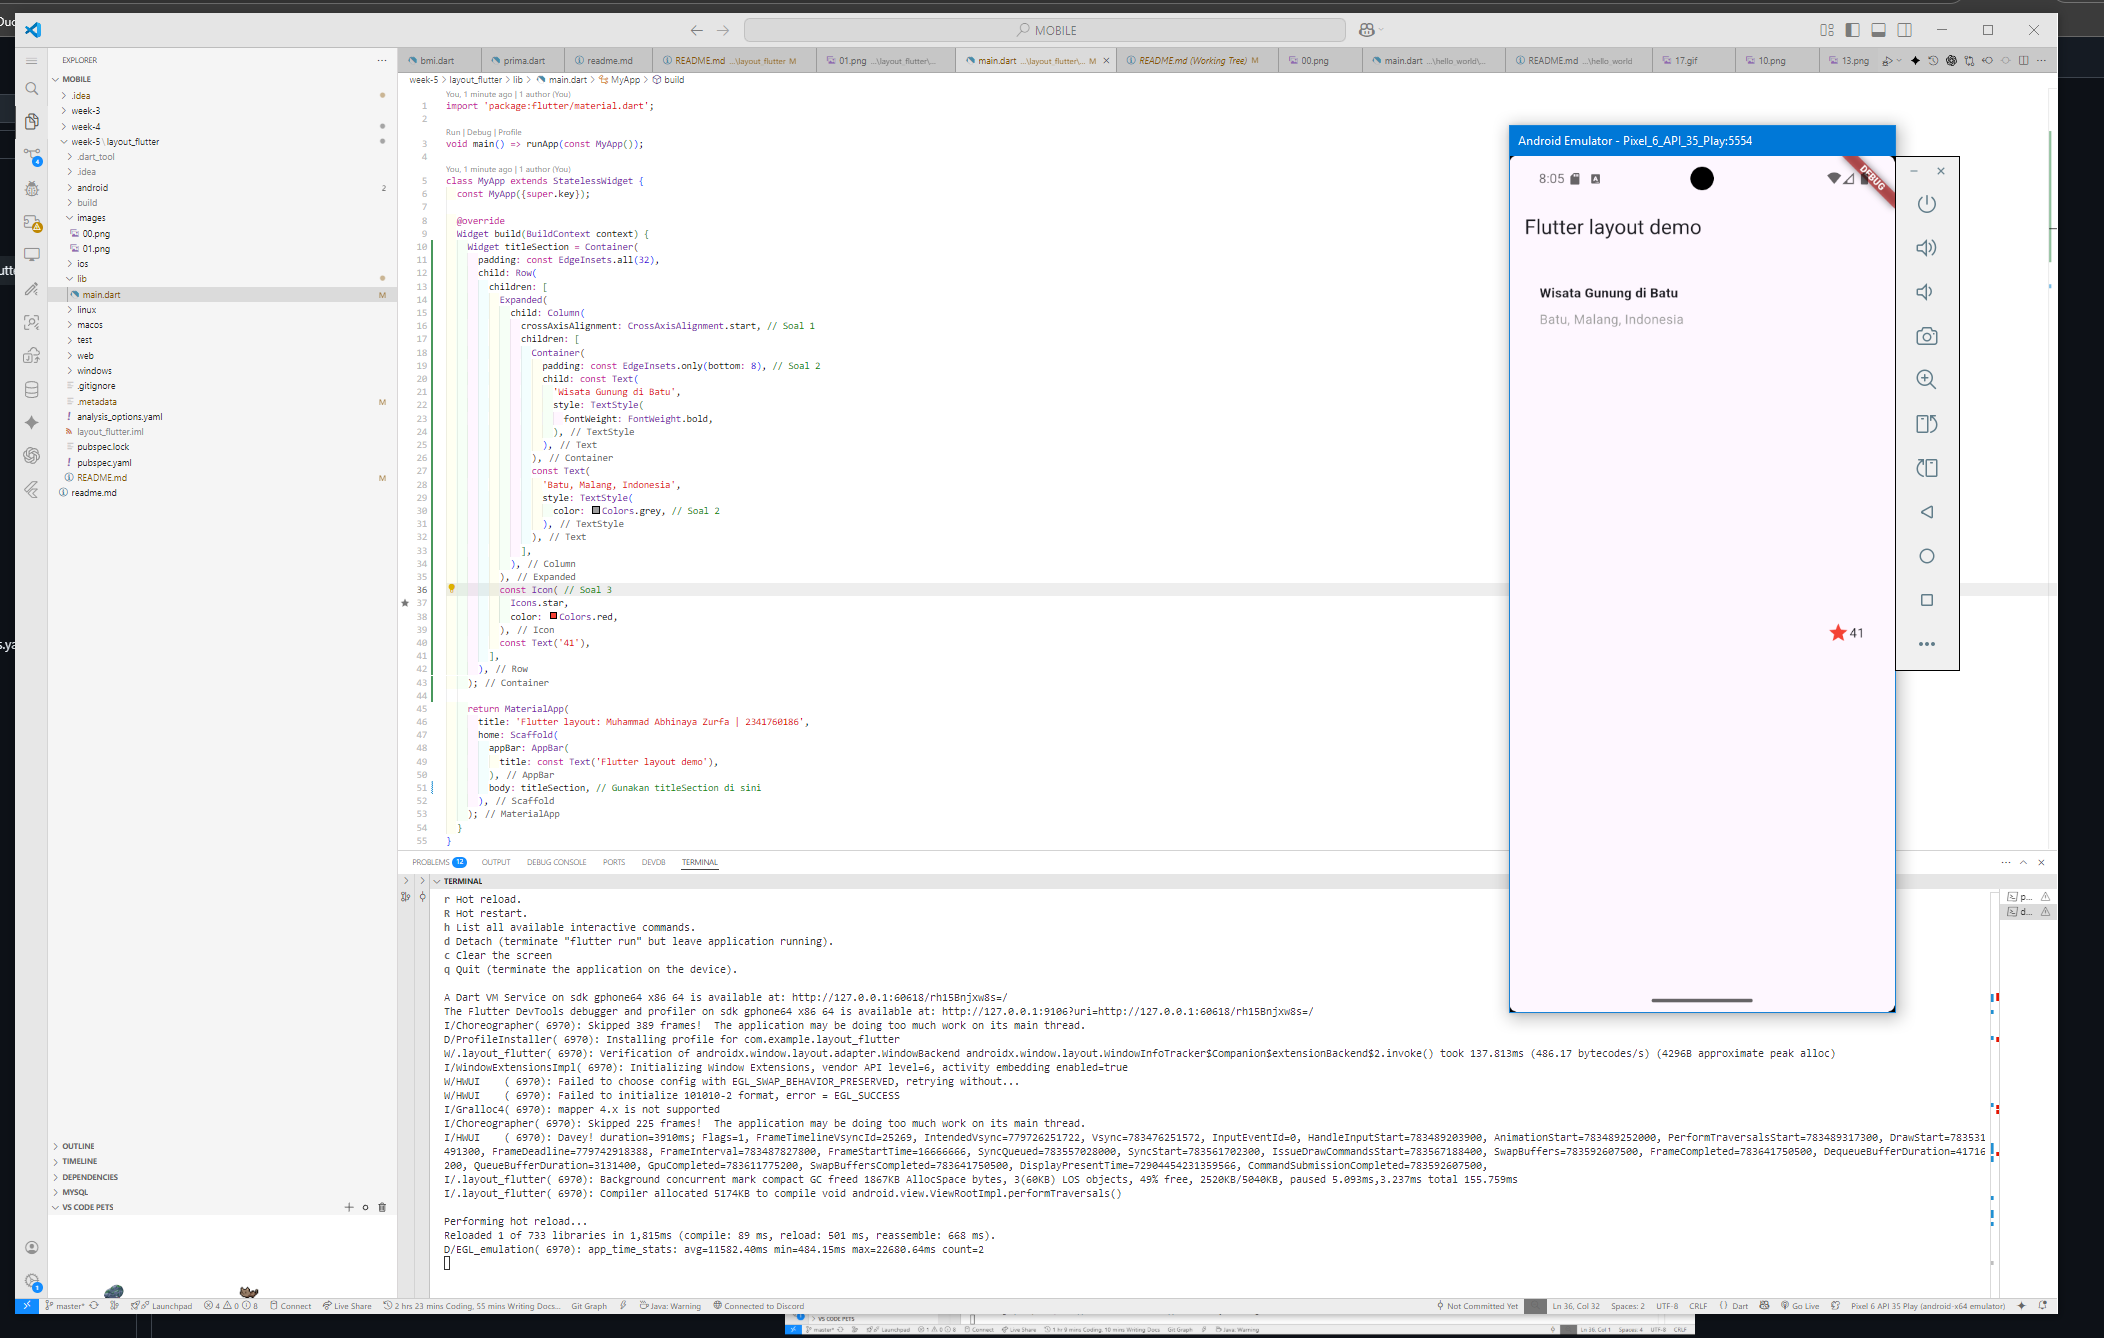
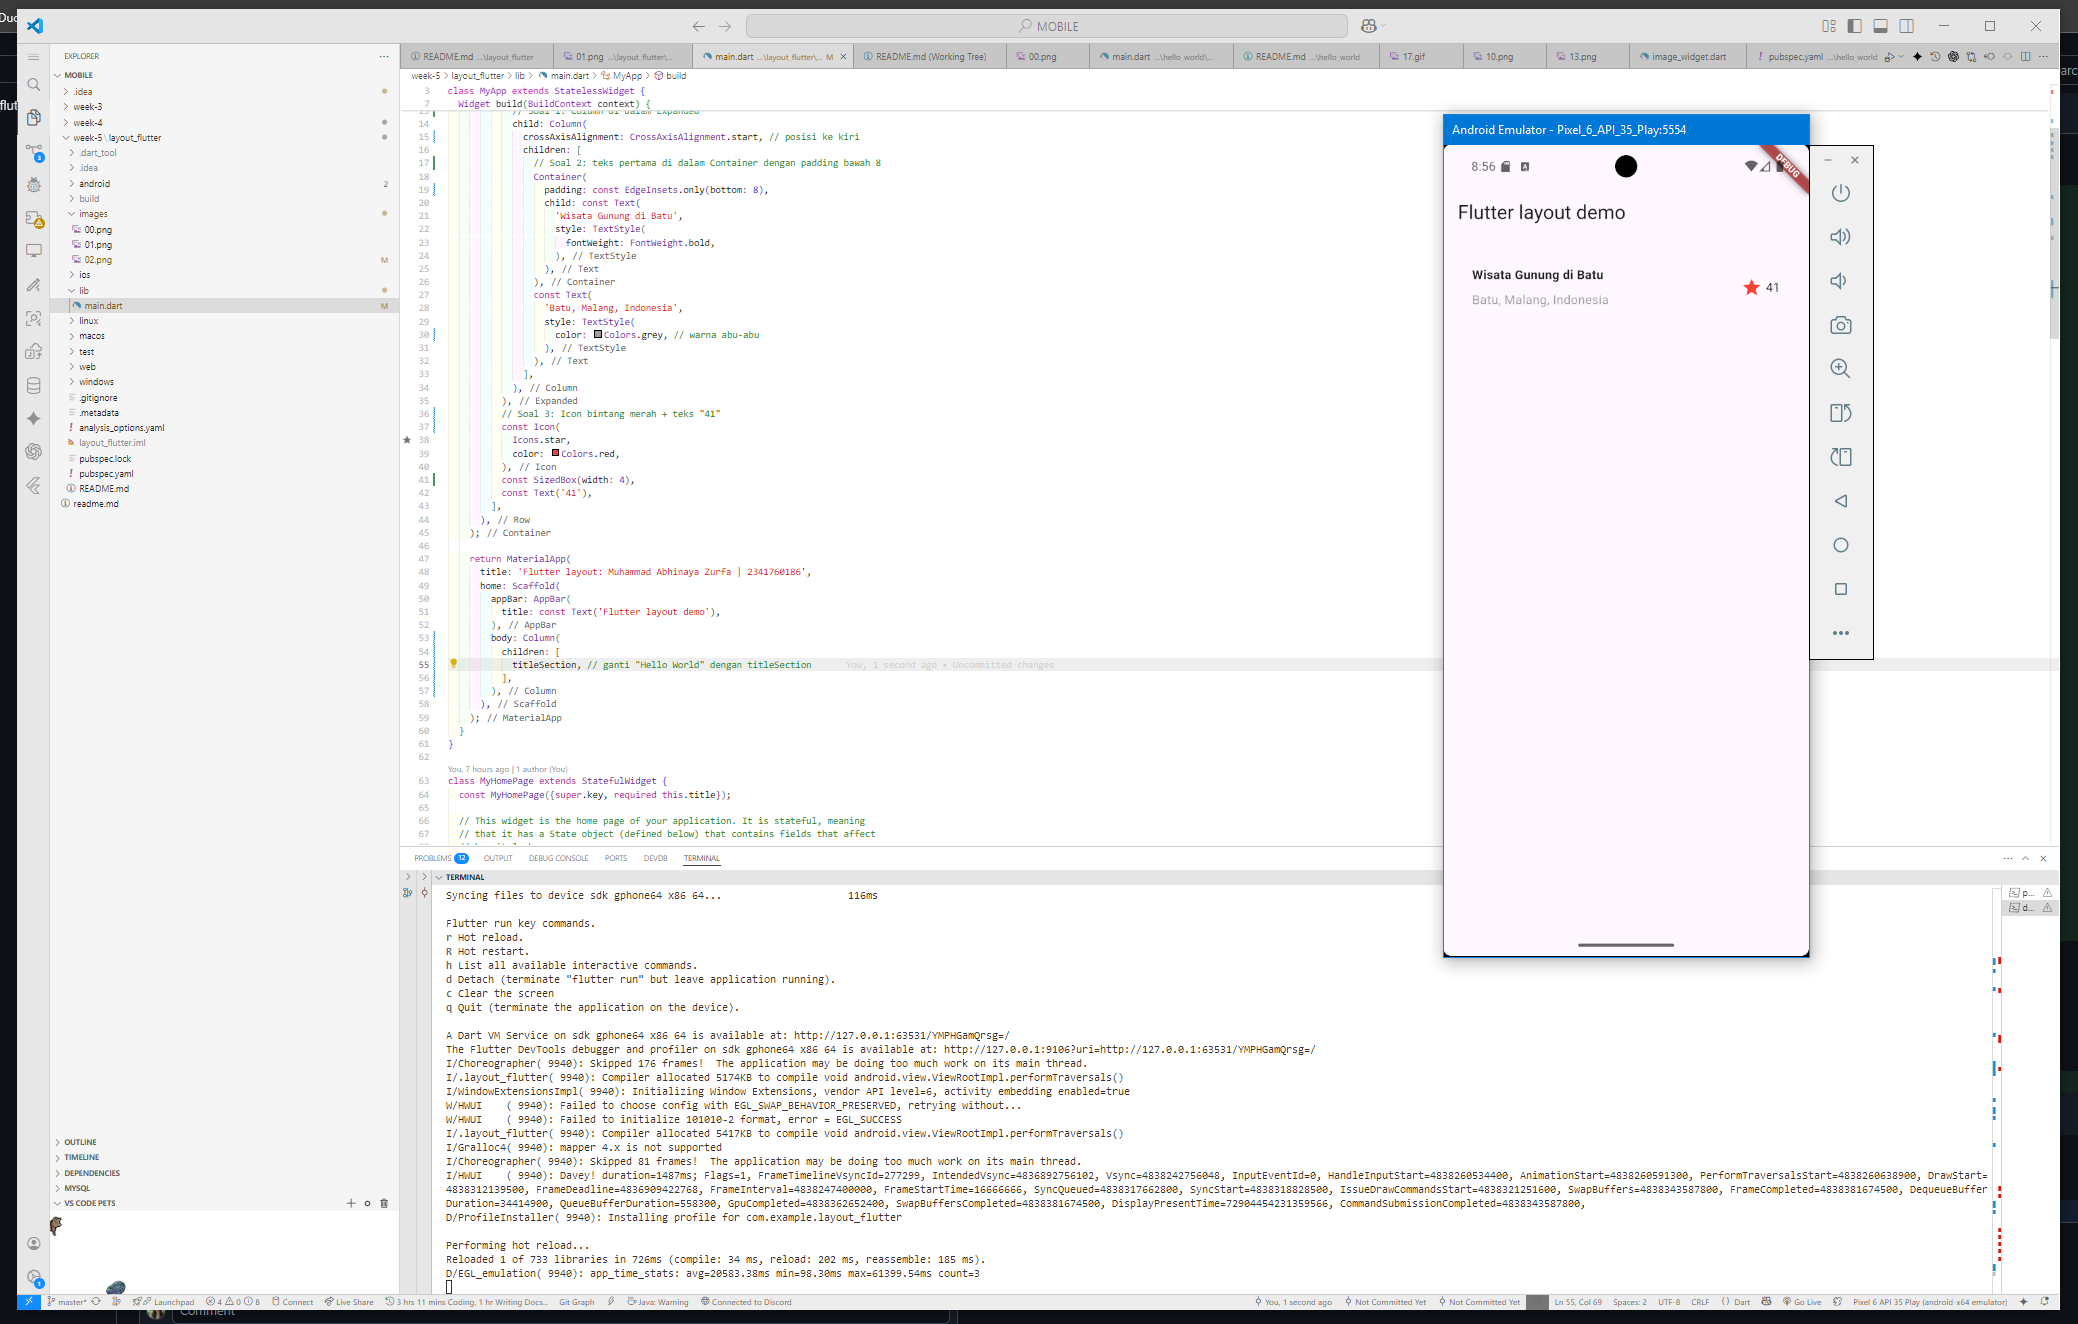
fixing fixing fixing zzzz

Changed region(s): [[0.0, 0.0, 1.0, 1.0], [0.7084, 0.4335, 0.7392, 0.4645]]

diff --git a/week-5/layout_flutter/lib/main.dart b/week-5/layout_flutter/lib/main.dart
@@ -1,22 +1,22 @@
 import 'package:flutter/material.dart';
 
-void main() => runApp(const MyApp());
-
 class MyApp extends StatelessWidget {
   const MyApp({super.key});
 
   @override
   Widget build(BuildContext context) {
     Widget titleSection = Container(
-      padding: const EdgeInsets.all(32),
+      padding: const EdgeInsets.all(32), // padding di sepanjang sisi
       child: Row(
         children: [
           Expanded(
+            // Soal 1: Column di dalam Expanded
             child: Column(
-              crossAxisAlignment: CrossAxisAlignment.start, // Soal 1
+              crossAxisAlignment: CrossAxisAlignment.start, // posisi ke kiri
               children: [
+                // Soal 2: teks pertama di dalam Container dengan padding bawah 8
                 Container(
-                  padding: const EdgeInsets.only(bottom: 8), // Soal 2
+                  padding: const EdgeInsets.only(bottom: 8),
                   child: const Text(
                     'Wisata Gunung di Batu',
                     style: TextStyle(
@@ -27,16 +27,18 @@ class MyApp extends StatelessWidget {
                 const Text(
                   'Batu, Malang, Indonesia',
                   style: TextStyle(
-                    color: Colors.grey, // Soal 2
+                    color: Colors.grey, // warna abu-abu
                   ),
                 ),
               ],
             ),
           ),
-          const Icon( // Soal 3
+          // Soal 3: Icon bintang merah + teks "41"
+          const Icon(
             Icons.star,
             color: Colors.red,
           ),
+          const SizedBox(width: 4),
           const Text('41'),
         ],
       ),
@@ -48,7 +50,11 @@ class MyApp extends StatelessWidget {
         appBar: AppBar(
           title: const Text('Flutter layout demo'),
         ),
-        body: titleSection, // Gunakan titleSection di sini
+        body: Column(
+          children: [
+            titleSection, // ganti "Hello World" dengan titleSection
+          ],
+        ),
       ),
     );
   }
